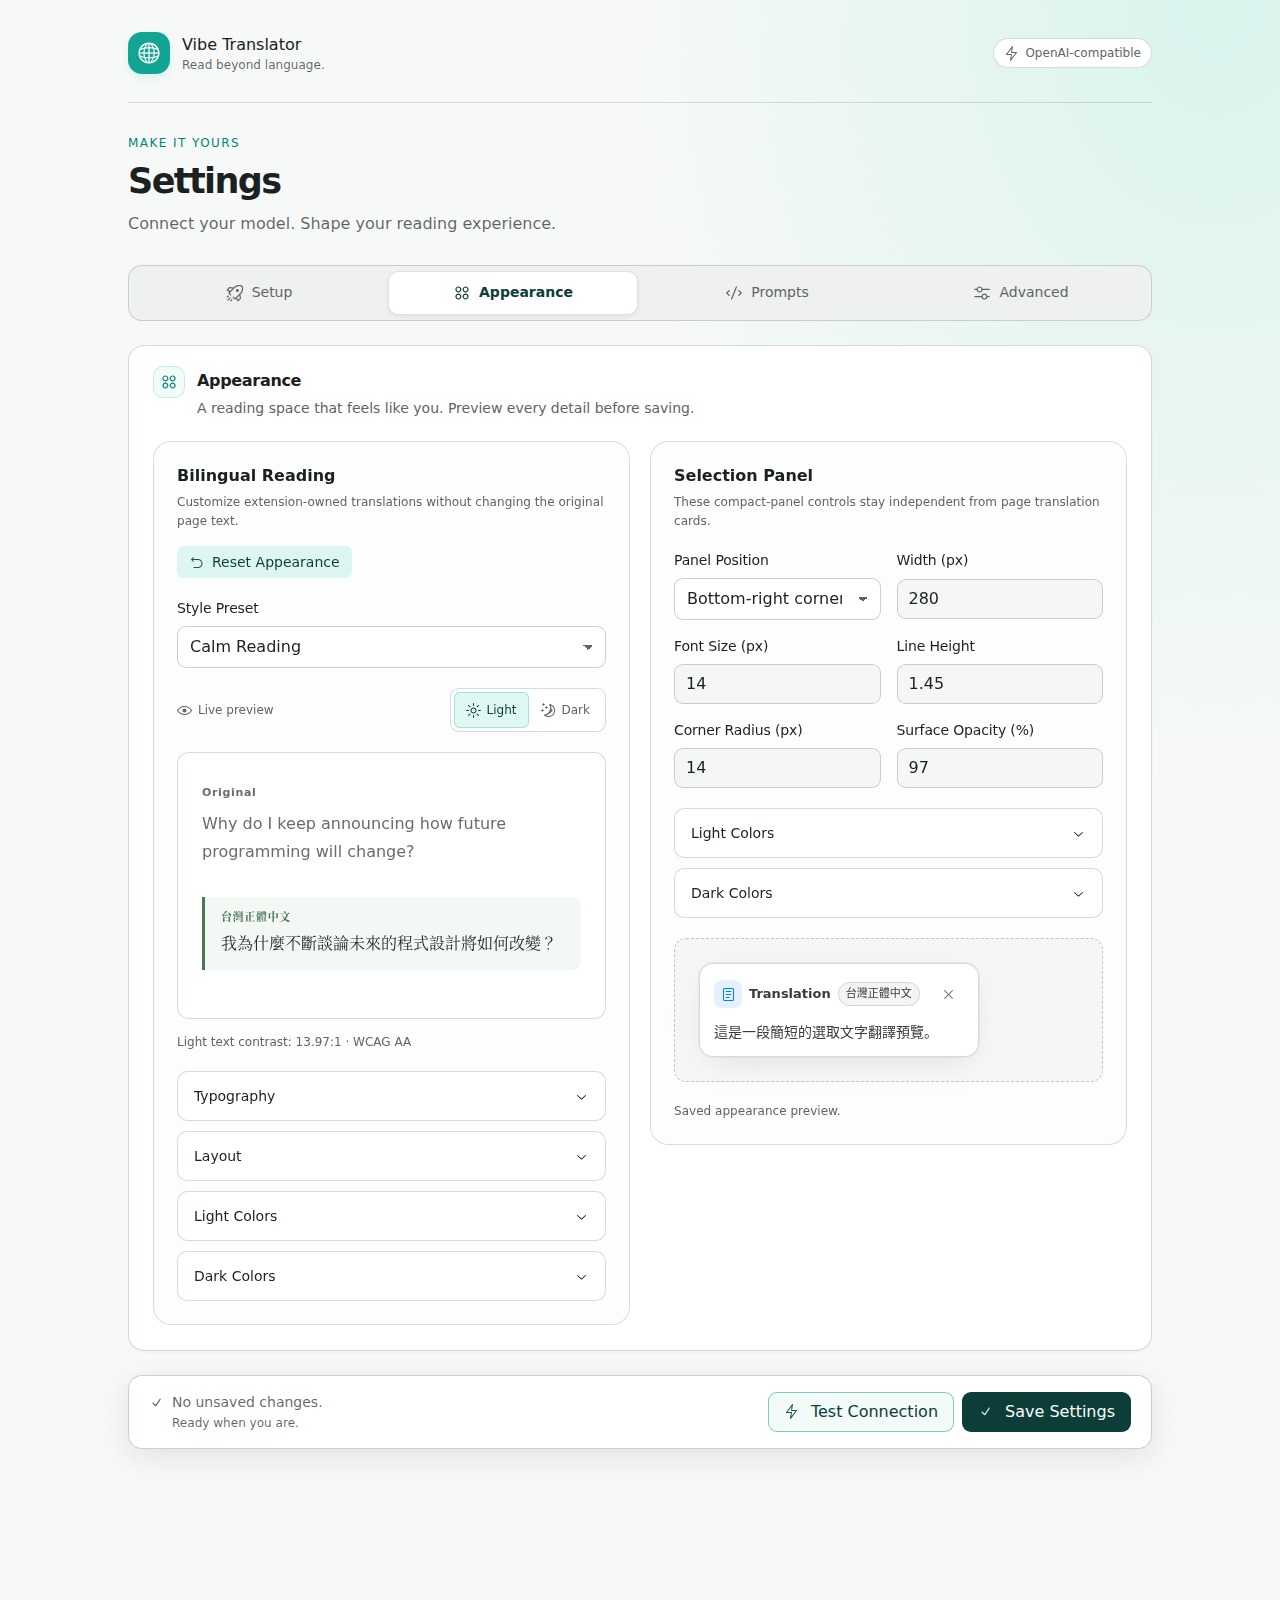
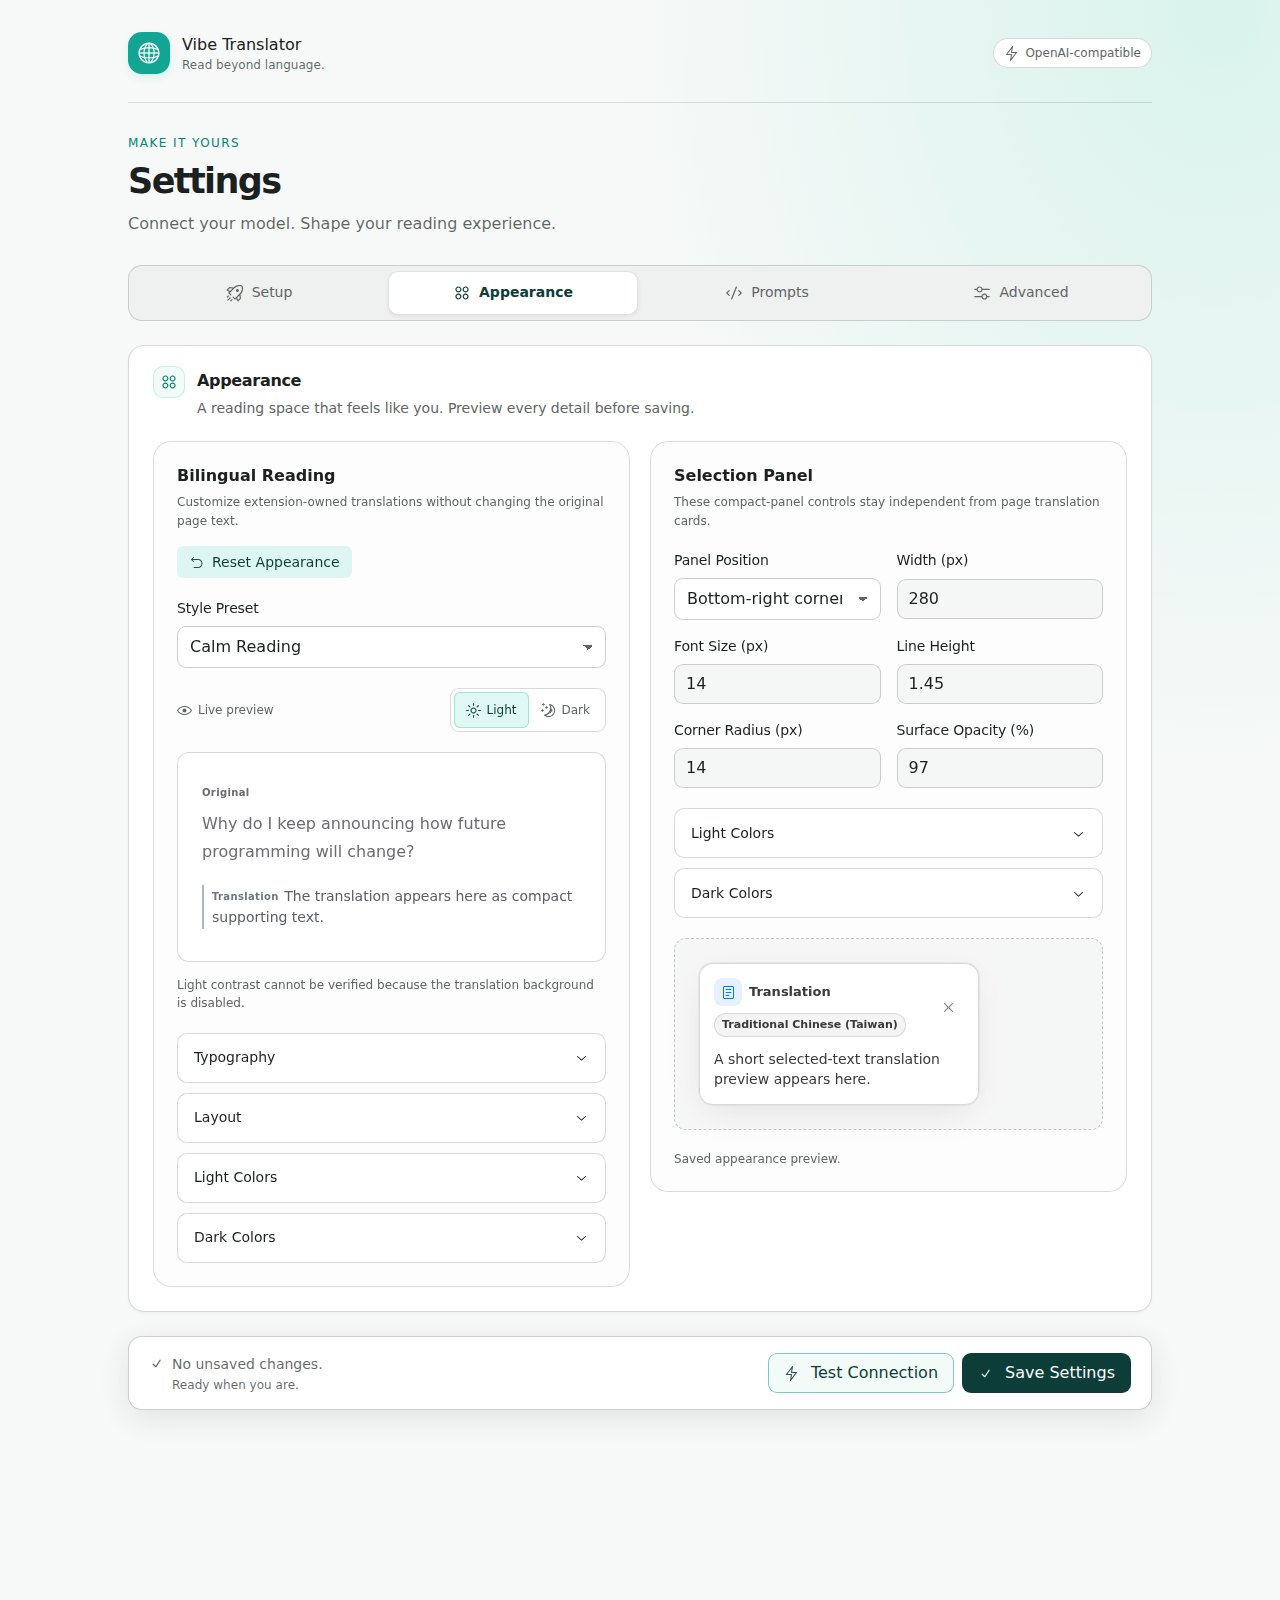
fix(ui): keep interface copy in English

diff --git a/src/shared/settings.js b/src/shared/settings.js
@@ -37,7 +37,7 @@ function createDefaultSystemPromptTemplate(leadInstruction, options = {}) {
 	if (options.includeSoftwareTerminology !== false) {
 		rules.push(
 			"Preserve product names, package names, file paths, commands, code, identifiers, account names, commit hashes, and established technical terms unless a standard localized form is clearly preferred.",
-			"For Traditional Chinese software-development text, translate pull request as PR, or as 合併請求 when a localized term is needed; keep commit, review, and merge in English. Never use literal forms such as 拉取要求 or 提取要求, and keep equivalent terms consistent across all items.",
+			"For Traditional Chinese software-development text, translate pull request as PR, or use the established localized term when context requires it; keep commit, review, and merge in English, avoid literal word-for-word variants, and keep equivalent terms consistent across all items.",
 		);
 	}
 
@@ -151,7 +151,7 @@ const DEFAULT_SETTINGS = Object.freeze({
 	showTranslationDebugInfo: false,
 	selectionPanelPositionMode: "near-selection",
 	youtubeSubtitleDisplayMode: "translation-only",
-	targetLanguage: "台灣正體中文",
+	targetLanguage: "Traditional Chinese (Taiwan)",
 	disabledDomains: "",
 });
 

diff --git a/test/storage.test.js b/test/storage.test.js
@@ -110,6 +110,7 @@ test("validateSettings merges prompt template defaults", () => {
 		DEFAULT_SETTINGS.userPromptTemplate,
 		DEFAULT_USER_PROMPT_TEMPLATE,
 	);
+	assert.equal(DEFAULT_SETTINGS.targetLanguage, "Traditional Chinese (Taiwan)");
 });
 
 test("default prompt templates define a complete translation contract", () => {
@@ -119,7 +120,7 @@ test("default prompt templates define a complete translation contract", () => {
 	assert.match(DEFAULT_SYSTEM_PROMPT_TEMPLATE, /already in targetLanguage/u);
 	assert.match(DEFAULT_SYSTEM_PROMPT_TEMPLATE, /product names, package names/u);
 	assert.match(DEFAULT_SYSTEM_PROMPT_TEMPLATE, /pull request as PR/u);
-	assert.match(DEFAULT_SYSTEM_PROMPT_TEMPLATE, /拉取要求/u);
+	assert.match(DEFAULT_SYSTEM_PROMPT_TEMPLATE, /avoid literal word-for-word/u);
 	assert.match(DEFAULT_SYSTEM_PROMPT_TEMPLATE, /__OT_\.\.\.__/u);
 	assert.match(DEFAULT_SYSTEM_PROMPT_TEMPLATE, /provided schema/u);
 	assert.match(DEFAULT_USER_PROMPT_TEMPLATE, /top-level targetLanguage/u);

diff --git a/src/options/appearance-preview.jsx b/src/options/appearance-preview.jsx
@@ -74,7 +74,7 @@ function ReadingAppearancePreview({
 							margin: inline.showBackground ? "6px 0 0" : 0,
 						}}
 					>
-						我為什麼不斷談論未來的程式設計將如何改變？
+						The translation appears here as compact supporting text.
 					</p>
 				</div>
 			</div>
@@ -146,7 +146,7 @@ function SelectionAppearancePreview({
 					<Cross2Icon />
 				</span>
 			</div>
-			<p>這是一段簡短的選取文字翻譯預覽。</p>
+			<p>A short selected-text translation preview appears here.</p>
 		</div>
 	);
 }

diff --git a/src/content/selection/panel.js b/src/content/selection/panel.js
@@ -321,7 +321,7 @@ function createSelectionPanelRenderer(options = {}) {
 		panel = doc.createElement("aside");
 		const header = doc.createElement("div");
 		const identity = doc.createElement("div");
-		const icon = createTextElement("span", "selection-panel-icon", "文");
+		const icon = createTextElement("span", "selection-panel-icon", "TR");
 		const title = createTextElement(
 			"p",
 			"selection-panel-title",

diff --git a/test/content-selection-panel.test.js b/test/content-selection-panel.test.js
@@ -297,6 +297,11 @@ test("selection panel renderer cleanup removes lifecycle handlers", () => {
 
 	assert.equal(harness.listeners.has("keydown"), true);
 	assert.equal(harness.viewportListeners.has("resize"), true);
+	assert.equal(
+		harness.document.querySelector('[data-ot-role="selection-panel-icon"]')
+			?.textContent,
+		"TR",
+	);
 
 	harness.renderer.cleanup();
 

diff --git a/src/options/setup-section.jsx b/src/options/setup-section.jsx
@@ -99,7 +99,7 @@ function SetupSection({
 						name="targetLanguage"
 						note="Translate pages and selected text into this language."
 						onChange={(event) => onField("targetLanguage", event.target.value)}
-						placeholder="台灣正體中文"
+						placeholder="Traditional Chinese (Taiwan)"
 						required
 						value={draft.targetLanguage}
 					/>

diff --git a/README.md b/README.md
@@ -54,7 +54,7 @@ The options interface uses locally bundled React and Radix Themes, Colors, Icons
 | API Key | Secret key sent in the `Authorization` header |
 | Base URL | Root URL of any OpenAI-compatible API (default: `https://api.openai.com/v1`) |
 | Model | Model name, e.g. `gpt-4.1-mini` |
-| Target Language | Language to translate into (default: `台灣正體中文`) |
+| Target Language | Language to translate into (default: `Traditional Chinese (Taiwan)`) |
 | System Prompt Template | Stable translation rules; supports `{{targetLanguage}}`, `{{itemCount}}`, and `{{itemKind}}` |
 | User Prompt Template | Translation request and source data; must include `{{sourcePayload}}` and also supports the system-template variables |
 | Reading Appearance | Calm Reading, Minimal, and High Contrast presets plus font, size, spacing, surface, accent, label, animation, and separate light/dark colors |

diff --git a/MEMORY.md b/MEMORY.md
@@ -48,3 +48,4 @@
 - Selection translation UI should default to a compact tooltip-sized card; long content can expand, but the default should prefer density over empty space.
 - Inline page translations should default to a compact, neutral secondary line with a thin accent and explicit translation label; avoid large card backgrounds that overpower host-page hierarchy.
 - Translation appearance should be deeply customizable through safe presets and validated controls; keep inline reading cards and selection panels independently configurable without arbitrary CSS.
+- Extension-owned interface copy must be English; translated content and user-entered target-language values may use other languages.

diff --git a/docs/E2E.md b/docs/E2E.md
@@ -103,7 +103,7 @@ Put these in `.env` or export them in your shell:
 OPENAI_API_KEY=...
 OPENAI_BASE_URL=https://api.openai.com/v1
 OPENAI_MODEL=gpt-4.1-mini
-TARGET_LANGUAGE=台灣正體中文
+TARGET_LANGUAGE="Traditional Chinese (Taiwan)"
 ```
 
 For local smoke testing without a real API key, use the mock OpenAI-compatible API mode instead. The mock mode starts a local `/v1/models` and `/v1/responses` server and seeds the extension with its base URL:
